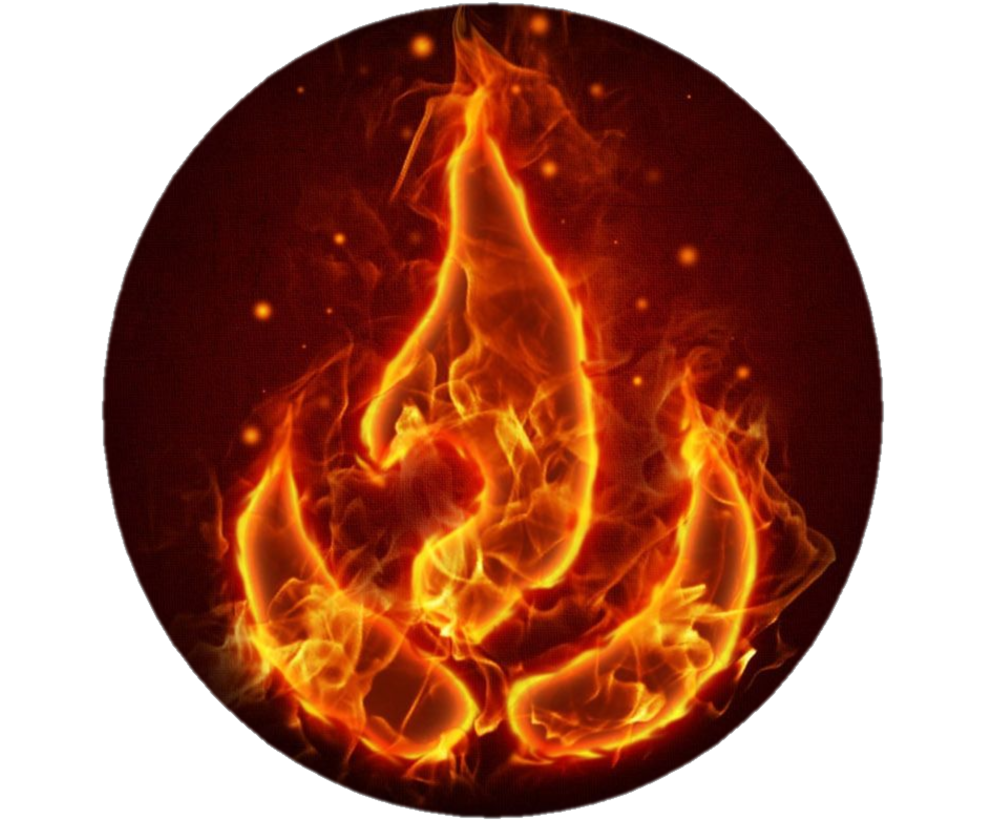
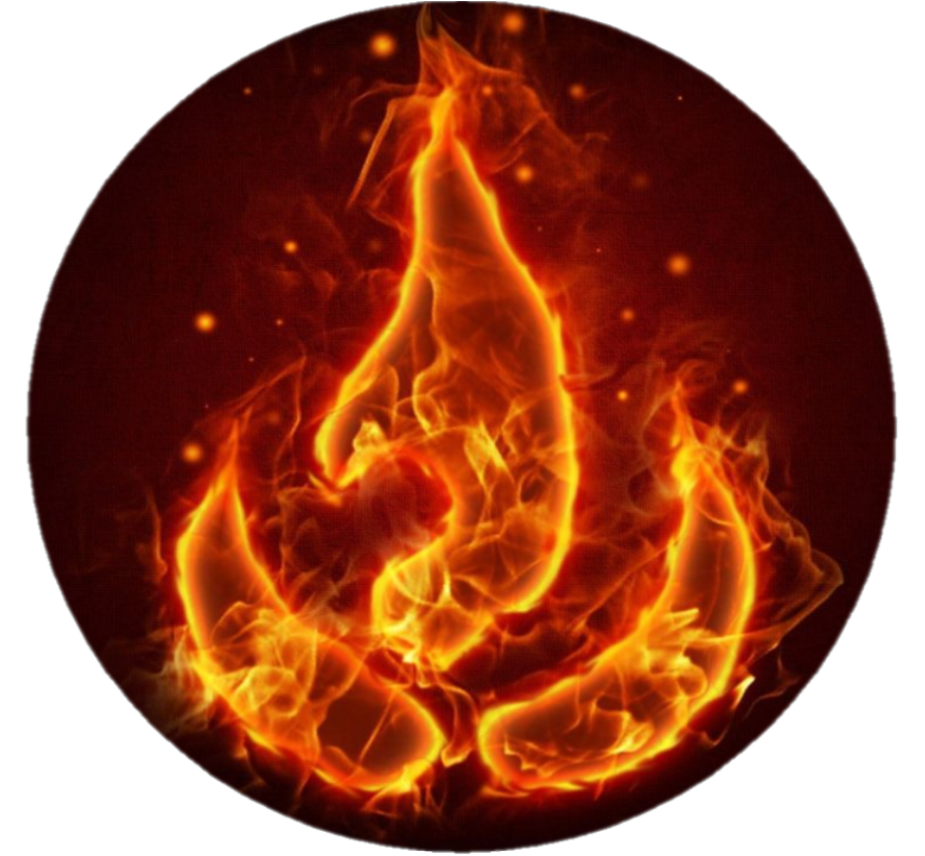
hub styles

diff --git a/src/components/hud.js b/src/components/hud.js
@@ -2,7 +2,7 @@ import React, { Component } from "react";
 import styles from "../style/hud.scss";
 
 import Scroll from "../../static/assets/images/blank-scroll-png.png";
-import EmptySpell from "../../static/assets/images/emptySpellForm.png";
+import EmptySpell from "./emptyspell.js";
 import Fire from "./fire.js";
 import Water from "./water.js";
 import Air from "./air.js";
@@ -11,16 +11,16 @@ import Earth from "./earth.js";
 export default class Hud extends Component {
   render() {
     return (
-      <div>
-        <div className="background">
-          <img src={Scroll} />
-        </div>
-
-        <div className="hud">
-          <div className="spellform">
-            <img src={EmptySpell} />
+      <div className="content-wrapper">
+        <div className="spellform">
+          <div className="background">
+            <img src={Scroll} />
           </div>
-
+          <div className="foreground">
+            <EmptySpell />
+          </div>
+        </div>
+        <div className="hud">
           <div className="mana">
             <button>
               <Fire />

diff --git a/src/style/hud.scss b/src/style/hud.scss
@@ -1,11 +1,35 @@
-.hud{
-    display:flex;
+.content-wrapper {
+    display: grid;
+    grid-template-rows: 1fr 1fr;
+
+    
+  .spellform {
+    .background {
+      height: 1000px;
+      position: absolute;
+      top: 20;
+
+      img {
+        height: 1000px;
+      }
+    }
+    .foreground {
+      position: relative;
+      top: 140px;
+      left: 140px;
+    }
+  }
+
+  .hud {
+    display: flex;
     justify-content: center;
     
-    .mana{
-      img{
-        height:200px;
-        width:190px;
-      }  
+
+    .mana {
+      img {
+        height: 200px;
+        width: 190px;
+      }
     }
+  }
 }

diff --git a/src/style/main.scss b/src/style/main.scss
@@ -19,10 +19,13 @@ body {
     -moz-osx-font-smoothing: grayscale;
     text-rendering: optimizeLegibility;
     -webkit-tap-highlight-color: transparent;
+    background-color: black;
 }
 
 .app {
     margin-top: 2rem;
     display: grid;
     justify-items: center;
+    color: white;
+    font-size: 2.5rem;
 }

diff --git a/src/components/emptyspell.js b/src/components/emptyspell.js
@@ -1,0 +1,11 @@
+import React from 'react';
+
+import emptyspell from "../../static/assets/images/emptySpellForm.png";
+
+export default function EmptySpell() {
+  return (
+    <div>
+        <img src={emptyspell} />
+    </div>
+  )
+}
